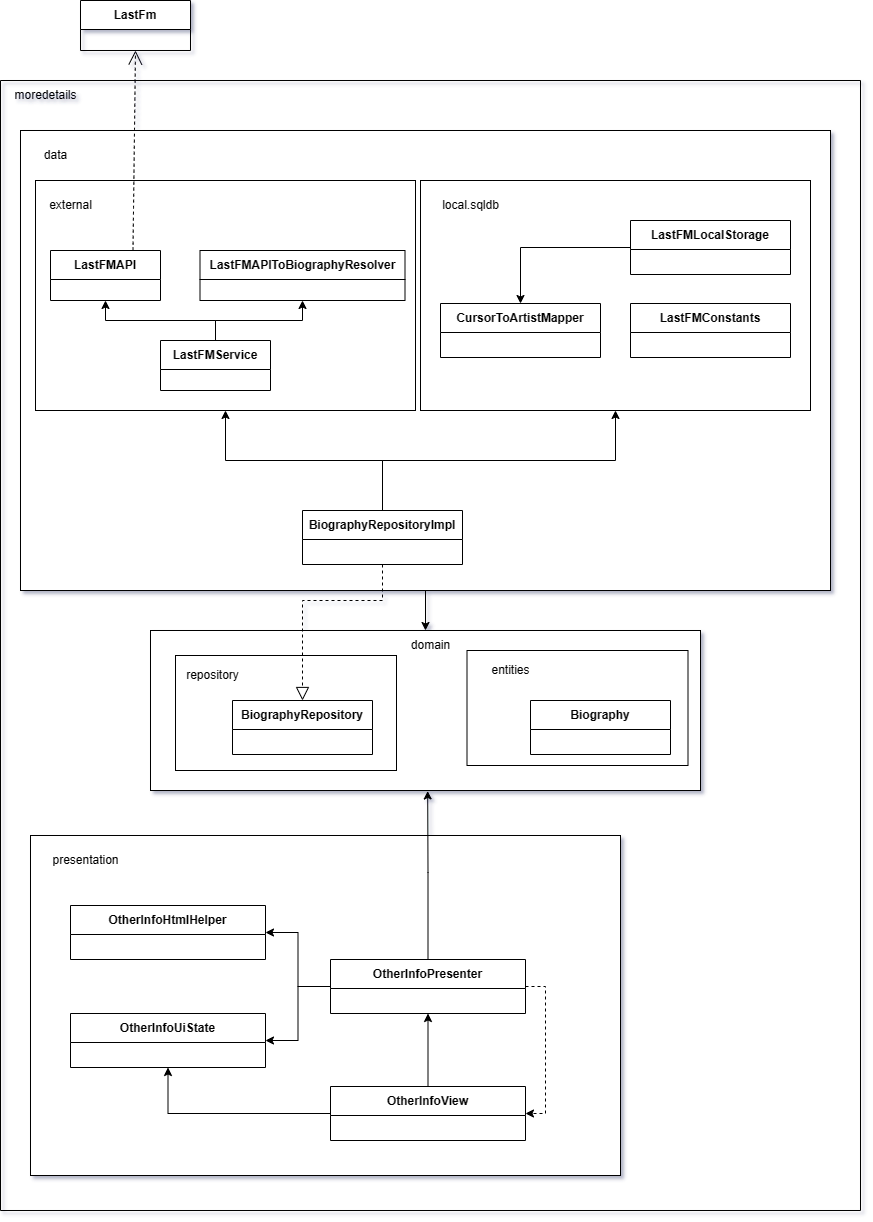
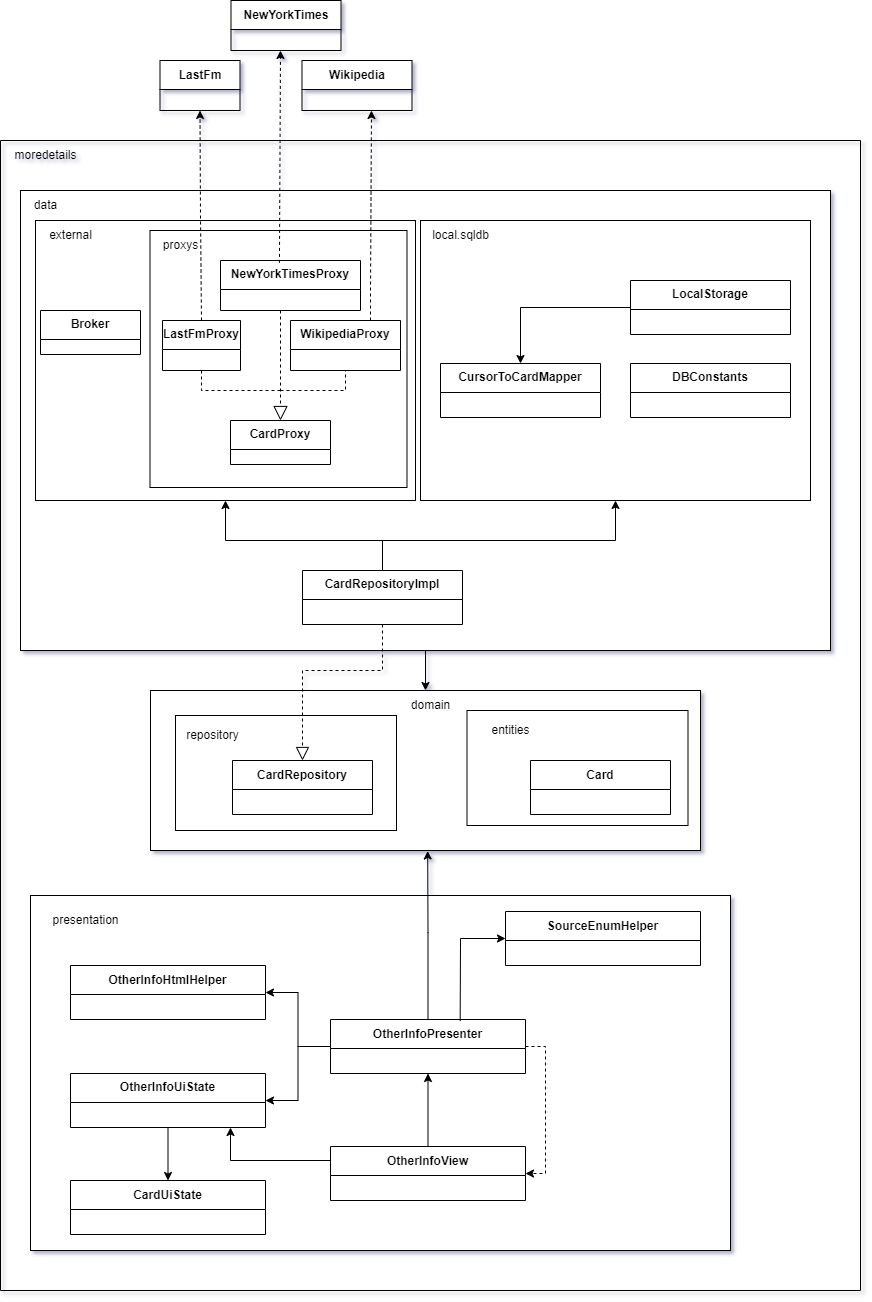
Arreglos sugeridos en el PR

diff --git a/app/src/main/java/ayds/lisboa/songinfo/moredetails/dependencyInjector/DependencyInjector.kt b/app/src/main/java/ayds/lisboa/songinfo/moredetails/dependencyInjector/DependencyInjector.kt
@@ -3,17 +3,17 @@ package ayds.lisboa.songinfo.moredetails.dependencyInjector
 import android.content.Context
 import ayds.NY1.NewYorkTimes.external.DependenciesInjector
 import ayds.NY1.NewYorkTimes.external.NYTArtistInfoService
-import ayds.lisboa.songinfo.moredetails.data.BiographyRepositoryImpl
+import ayds.lisboa.songinfo.moredetails.data.CardRepositoryImpl
 import ayds.lisboa.songinfo.moredetails.data.external.Broker
 import ayds.lisboa.songinfo.moredetails.data.external.BrokerImp
 import ayds.lisboa.songinfo.moredetails.data.external.proxys.LastFmProxy
 import ayds.lisboa.songinfo.moredetails.data.external.proxys.NewYorkTimesProxy
-import ayds.lisboa.songinfo.moredetails.data.external.proxys.Proxy
+import ayds.lisboa.songinfo.moredetails.data.external.proxys.CardProxy
 import ayds.lisboa.songinfo.moredetails.data.external.proxys.WikipediaProxy
 import ayds.lisboa.songinfo.moredetails.data.local.sqldb.CursorToCardMapperImpl
 import ayds.lisboa.songinfo.moredetails.data.local.sqldb.LocalStorage
 import ayds.lisboa.songinfo.moredetails.data.local.sqldb.LocalStorageImpl
-import ayds.lisboa.songinfo.moredetails.domain.repository.BiographyRepository
+import ayds.lisboa.songinfo.moredetails.domain.repository.CardRepository
 import ayds.lisboa.songinfo.moredetails.presentation.*
 import lisboa4LastFM.*
 import wikipedia.external.external.WikipediaArticleService
@@ -27,9 +27,9 @@ object DependencyInjector {
     private lateinit var lastFmService: LastFMService
     private lateinit var wikipediaService: WikipediaArticleService
     private lateinit var newYorkTimesService: NYTArtistInfoService
-    private lateinit var proxyCollection: MutableList<Proxy>
+    private lateinit var proxyCollection: MutableList<CardProxy>
     private lateinit var broker: Broker
-    private lateinit var biographyRepository: BiographyRepository
+    private lateinit var biographyRepository: CardRepository
     private lateinit var otherInfoHtmlHelper: OtherInfoHtmlHelper
     private lateinit var otherInfoSourceEnumHelper: SourceEnumHelper
     fun init(otherInfoView: OtherInfoView){
@@ -70,15 +70,15 @@ object DependencyInjector {
     }
 
     private fun createProxyCollection() {
-        proxyCollection = mutableListOf<Proxy>()
+        proxyCollection = mutableListOf<CardProxy>()
 
-        val lastFmProxy: Proxy = LastFmProxy(lastFmService)
+        val lastFmProxy: CardProxy = LastFmProxy(lastFmService)
         proxyCollection.add(lastFmProxy)
 
-        val wikipediaProxy: Proxy = WikipediaProxy(wikipediaService)
+        val wikipediaProxy: CardProxy = WikipediaProxy(wikipediaService)
         proxyCollection.add(wikipediaProxy)
 
-        val newYorkTimesProxy: Proxy = NewYorkTimesProxy(newYorkTimesService)
+        val newYorkTimesProxy: CardProxy = NewYorkTimesProxy(newYorkTimesService)
         proxyCollection.add(newYorkTimesProxy)
     }
 
@@ -87,7 +87,7 @@ object DependencyInjector {
     }
 
     private fun createBiographyRepository() {
-        biographyRepository = BiographyRepositoryImpl(localStorage, broker)
+        biographyRepository = CardRepositoryImpl(localStorage, broker)
     }
 
     private fun createOtherInfoPresenter() {

diff --git a/app/src/main/java/ayds/lisboa/songinfo/moredetails/presentation/OtherInfoPresenter.kt b/app/src/main/java/ayds/lisboa/songinfo/moredetails/presentation/OtherInfoPresenter.kt
@@ -1,7 +1,7 @@
 package ayds.lisboa.songinfo.moredetails.presentation
 
 import ayds.lisboa.songinfo.moredetails.domain.entities.Card
-import ayds.lisboa.songinfo.moredetails.domain.repository.BiographyRepository
+import ayds.lisboa.songinfo.moredetails.domain.repository.CardRepository
 import ayds.observer.Observable
 import ayds.observer.Subject
 
@@ -14,7 +14,7 @@ interface OtherInfoPresenter {
     fun searchArtistBiography(artistName: String)
 }
 internal class OtherInfoPresenterImpl (
-    private val biographyRepository: BiographyRepository,
+    private val biographyRepository: CardRepository,
     private val otherInfoHtmlHelper: OtherInfoHtmlHelper,
     private val sourceEnumHelper: SourceEnumHelper
 ) : OtherInfoPresenter {
@@ -36,16 +36,13 @@ internal class OtherInfoPresenterImpl (
     }
 
     private fun updateUiState(cards: List<Card>, artistName: String) {
-        var cardsUiState = mutableListOf<CardUiState>()
+        val cardsUiState = mutableListOf<CardUiState>()
         cards.forEach()
         {
-            val cardUiSate = createCardUiState(
-                it,
-                artistName
-            )
+            val cardUiSate = createCardUiState(it, artistName)
             cardsUiState.add(cardUiSate)
         }
-        var uiState = OtherInfoUiState(cardsUiState)
+        val uiState = OtherInfoUiState(cardsUiState)
         uiStateObservable.notify(uiState)
     }
 
@@ -69,7 +66,7 @@ internal class OtherInfoPresenterImpl (
     }
 
     private fun updateNoResultsUiState() {
-        var cardsUiState = mutableListOf<CardUiState>()
+        val cardsUiState = mutableListOf<CardUiState>()
         val emptyUiState = OtherInfoUiState(cardsUiState)
         uiStateObservable.notify(emptyUiState)
     }

diff --git a/app/src/main/java/ayds/lisboa/songinfo/moredetails/data/external/proxys/NewYorkTimesProxy.kt b/app/src/main/java/ayds/lisboa/songinfo/moredetails/data/external/proxys/NewYorkTimesProxy.kt
@@ -9,27 +9,30 @@ const val NYT_IMAGE = "https://encrypted-tbn0.gstatic.com/images?q=tbn:ANd9GcRVi
 
 internal class NewYorkTimesProxy(
     private val newYorkTimesService: NYTArtistInfoService
-): Proxy {
+): CardProxy {
     override fun getArtistBiography(artistName: String): Card? {
         var card: Card? = null
-        var newYorkTimesArtistInfo: ArtistInformationExternal? = try{
-            newYorkTimesService.getArtistInfo(artistName)
+        var newYorkTimesArtistInfo: ArtistInformationExternal? = null
+        try{
+            newYorkTimesArtistInfo = newYorkTimesService.getArtistInfo(artistName)
         }catch (e: Exception){
             e.printStackTrace()
-            null
         }
         if (newYorkTimesArtistInfo != null)
         {
             if(newYorkTimesArtistInfo is ArtistInformationExternal.ArtistInformationDataExternal) {
-                card = Card(
-                    newYorkTimesArtistInfo.abstract.toString(),
-                    newYorkTimesArtistInfo.url.toString(),
-                    Source.NewYorkTimes,
-                    NYT_IMAGE,
-                    newYorkTimesArtistInfo.isLocallyStored
-                )
+                card = artistInformationExternalToCard(newYorkTimesArtistInfo)
             }
         }
         return card
     }
+
+    private fun artistInformationExternalToCard(newYorkTimesArtistInfo: ArtistInformationExternal.ArtistInformationDataExternal): Card = Card(
+        newYorkTimesArtistInfo.abstract.toString(),
+        newYorkTimesArtistInfo.url.toString(),
+        Source.NewYorkTimes,
+        NYT_IMAGE,
+        newYorkTimesArtistInfo.isLocallyStored
+    )
+
 }

diff --git a/app/src/main/java/ayds/lisboa/songinfo/moredetails/data/CardRepositoryImpl.kt b/app/src/main/java/ayds/lisboa/songinfo/moredetails/data/CardRepositoryImpl.kt
@@ -2,17 +2,17 @@ package ayds.lisboa.songinfo.moredetails.data
 import ayds.lisboa.songinfo.moredetails.data.external.Broker
 import ayds.lisboa.songinfo.moredetails.data.local.sqldb.LocalStorage
 import ayds.lisboa.songinfo.moredetails.domain.entities.Card
-import ayds.lisboa.songinfo.moredetails.domain.repository.BiographyRepository
+import ayds.lisboa.songinfo.moredetails.domain.repository.CardRepository
 
-class BiographyRepositoryImpl(
-    private val localStorage: LocalStorage,
-    private val broker: Broker
-): BiographyRepository {
+internal class CardRepositoryImpl(
+    private val CardLocalStorage: LocalStorage,
+    private val CardBroker: Broker
+): CardRepository {
 
     override fun getArtistBiography(artistName: String): List<Card> {
-        var cards = localStorage.getArtistCards(artistName)
+        var cards = CardLocalStorage.getArtistCards(artistName)
         if (cards.isEmpty()) {
-            cards = broker.getCards(artistName)
+            cards = CardBroker.getCards(artistName)
             if (cards.isNotEmpty()) {
                 saveAllCards(artistName, cards)
             }
@@ -24,7 +24,7 @@ class BiographyRepositoryImpl(
     private fun saveAllCards(artistName: String, cards: List<Card>)
     {
         cards.forEach{
-            localStorage.saveArtistCard(artistName, it)
+            CardLocalStorage.saveArtistCard(artistName, it)
         }
     }
 }

diff --git a/app/src/main/java/ayds/lisboa/songinfo/moredetails/data/external/Broker.kt b/app/src/main/java/ayds/lisboa/songinfo/moredetails/data/external/Broker.kt
@@ -1,23 +1,23 @@
 package ayds.lisboa.songinfo.moredetails.data.external
 
-import ayds.lisboa.songinfo.moredetails.data.external.proxys.Proxy
+import ayds.lisboa.songinfo.moredetails.data.external.proxys.CardProxy
 import ayds.lisboa.songinfo.moredetails.domain.entities.Card
 
-interface Broker{
-        fun getCards(artistName: String): List<Card>
+interface Broker {
+    fun getCards(artistName: String): List<Card>
 }
+
 internal class BrokerImp(
-        private val proxyCollection: List<Proxy>
-): Broker
-{
-        override fun getCards(artistName: String): List<Card> {
-                val cards = mutableListOf<Card>()
-                proxyCollection.forEach {
-                        val card = it.getArtistBiography(artistName)
-                        if(card != null) {
-                                cards.add(card)
-                        }
-                }
-                return cards
+    private val proxyCollection: List<CardProxy>
+) : Broker {
+    override fun getCards(artistName: String): List<Card> {
+        val cards = mutableListOf<Card>()
+        proxyCollection.forEach {
+            val card = it.getArtistBiography(artistName)
+            if (card != null) {
+                cards.add(card)
+            }
         }
+        return cards
+    }
 }

diff --git a/app/src/main/java/ayds/lisboa/songinfo/moredetails/data/external/proxys/WikipediaProxy.kt b/app/src/main/java/ayds/lisboa/songinfo/moredetails/data/external/proxys/WikipediaProxy.kt
@@ -4,23 +4,26 @@ import ayds.lisboa.songinfo.moredetails.domain.entities.Card
 import ayds.lisboa.songinfo.moredetails.domain.entities.Source
 import wikipedia.external.external.WikipediaArticleService
 import wikipedia.external.external.entities.WIKIPEDIA_LOGO
+import wikipedia.external.external.entities.WikipediaArtist
 
 internal class WikipediaProxy(
     private val wikipediaService: WikipediaArticleService
-): Proxy {
+): CardProxy {
     override fun getArtistBiography(artistName: String): Card? {
         val card: Card? = try{
             val wikipediaArtist = wikipediaService.getArtist(artistName)
-            Card(
-                wikipediaArtist.artistInfo,
-                wikipediaArtist.wikipediaUrl,
-                Source.Wikipedia,
-                WIKIPEDIA_LOGO,
-                wikipediaArtist.isInDataBase,
-            )
+            wikipediaArtistToCard(wikipediaArtist)
         } catch (e: Exception){
             null
         }
         return card
     }
+
+    private fun wikipediaArtistToCard(wikipediaArtist: WikipediaArtist) = Card(
+        wikipediaArtist.artistInfo,
+        wikipediaArtist.wikipediaUrl,
+        Source.Wikipedia,
+        WIKIPEDIA_LOGO,
+        wikipediaArtist.isInDataBase,
+    )
 }

diff --git a/app/src/main/java/ayds/lisboa/songinfo/moredetails/data/external/proxys/LastFmProxy.kt b/app/src/main/java/ayds/lisboa/songinfo/moredetails/data/external/proxys/LastFmProxy.kt
@@ -7,20 +7,23 @@ import lisboa4LastFM.LastFMService
 
 internal class LastFmProxy(
     private val lastFMService: LastFMService
-): Proxy {
+): CardProxy {
     override fun getArtistBiography(artistName: String): Card? {
         var card: Card? = null
         val lastFmBiography = lastFMService.getArtistBiography(artistName)
         if (lastFmBiography != null)
         {
-            card = Card(
-                lastFmBiography.artistInfo,
-                lastFmBiography.url,
-                Source.LastFm,
-                ArtistBiography.URL_LAST_FM_IMAGE,
-                lastFmBiography.isLocallyStored
-            )
+            card = artistBiographyToCard(lastFmBiography)
         }
         return card
     }
+
+    private fun artistBiographyToCard(lastFmBiography: ArtistBiography): Card = Card(
+        lastFmBiography.artistInfo,
+        lastFmBiography.url,
+        Source.LastFm,
+        ArtistBiography.URL_LAST_FM_IMAGE,
+        lastFmBiography.isLocallyStored
+    )
+
 }

diff --git a/app/src/test/java/ayds/lisboa/songinfo/moredetails/data/BiographyRepositoryImplTest.kt b/app/src/test/java/ayds/lisboa/songinfo/moredetails/data/BiographyRepositoryImplTest.kt
@@ -2,7 +2,7 @@ package ayds.lisboa.songinfo.moredetails.data
 
 import ayds.lisboa.songinfo.moredetails.data.local.sqldb.LocalStorage
 import ayds.lisboa.songinfo.moredetails.domain.entities.Card
-import ayds.lisboa.songinfo.moredetails.domain.repository.BiographyRepository
+import ayds.lisboa.songinfo.moredetails.domain.repository.CardRepository
 import lisboa4LastFM.ArtistBiography
 import lisboa4LastFM.LastFMService
 import io.mockk.every
@@ -17,8 +17,8 @@ class BiographyRepositoryImplTest {
     private val localStorage: LocalStorage = mockk(relaxUnitFun = true)
     private val lastFMService: LastFMService = mockk(relaxUnitFun = true)
 
-    private val biographyRepository: BiographyRepository by lazy {
-        BiographyRepositoryImpl(localStorage, lastFMService)
+    private val biographyRepository: CardRepository by lazy {
+        CardRepositoryImpl(localStorage, lastFMService)
     }
 
     @Test

diff --git a/app/src/test/java/ayds/lisboa/songinfo/moredetails/presentation/OtherInfoPresenterTest.kt b/app/src/test/java/ayds/lisboa/songinfo/moredetails/presentation/OtherInfoPresenterTest.kt
@@ -2,7 +2,7 @@ package ayds.lisboa.songinfo.moredetails.presentation
 
 import ayds.lisboa.songinfo.moredetails.domain.entities.Card.ArtistBiography
 import ayds.lisboa.songinfo.moredetails.domain.entities.Card.EmptyBiography
-import ayds.lisboa.songinfo.moredetails.domain.repository.BiographyRepository
+import ayds.lisboa.songinfo.moredetails.domain.repository.CardRepository
 import io.mockk.every
 import io.mockk.mockk
 import io.mockk.verify
@@ -12,7 +12,7 @@ private const val PREFIX = "[*]"
 
 class OtherInfoPresenterImplTest {
 
-    private val biographyRepository: BiographyRepository = mockk()
+    private val biographyRepository: CardRepository = mockk()
     private val otherInfoHtmlHelper: OtherInfoHtmlHelper = mockk()
 
     private val otherInfoPresenter: OtherInfoPresenter by lazy {

diff --git a/app/src/main/java/ayds/lisboa/songinfo/moredetails/presentation/OtherInfoView.kt b/app/src/main/java/ayds/lisboa/songinfo/moredetails/presentation/OtherInfoView.kt
@@ -12,7 +12,7 @@ import ayds.lisboa.songinfo.R
 import ayds.lisboa.songinfo.moredetails.dependencyInjector.DependencyInjector
 import com.squareup.picasso.Picasso
 
-class OtherInfoView : AppCompatActivity() {
+class OtherInfoView: AppCompatActivity() {
     private var uiState = OtherInfoUiState(mutableListOf())
     private lateinit var otherInfoPresenter: OtherInfoPresenter
 
@@ -124,7 +124,7 @@ class OtherInfoView : AppCompatActivity() {
     private fun showNoResult() {
         runOnUiThread {
             artistInfoTextView1.visibility = View.VISIBLE
-            artistInfoTextView1.text = "No Results"
+            artistInfoTextView1.text = NO_RESULTS
         }
     }
 

diff --git a/app/src/main/java/ayds/lisboa/songinfo/moredetails/presentation/CardUiState.kt b/app/src/main/java/ayds/lisboa/songinfo/moredetails/presentation/CardUiState.kt
@@ -1,11 +1,10 @@
 package ayds.lisboa.songinfo.moredetails.presentation
-import lisboa4LastFM.ArtistBiography.Companion.URL_LAST_FM_IMAGE as LOGO
 
 private const val DEFAULT_STRING = ""
 
 data class CardUiState (
     val artistInfoHTML: String = DEFAULT_STRING,
     val artistUrl: String = DEFAULT_STRING,
-    val imageUrl: String = LOGO,
+    val imageUrl: String = DEFAULT_STRING,
     val source: String = DEFAULT_STRING
 )

diff --git a/app/src/main/java/ayds/lisboa/songinfo/moredetails/domain/repository/CardRepository.kt b/app/src/main/java/ayds/lisboa/songinfo/moredetails/domain/repository/CardRepository.kt
@@ -2,7 +2,7 @@ package ayds.lisboa.songinfo.moredetails.domain.repository
 
 import ayds.lisboa.songinfo.moredetails.domain.entities.Card
 
-interface BiographyRepository {
+interface CardRepository {
     fun getArtistBiography(artistName: String): List<Card>
 }
 
